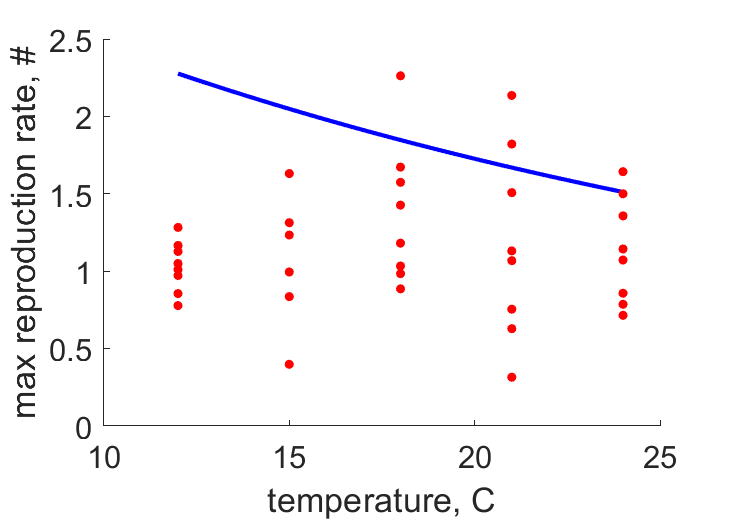
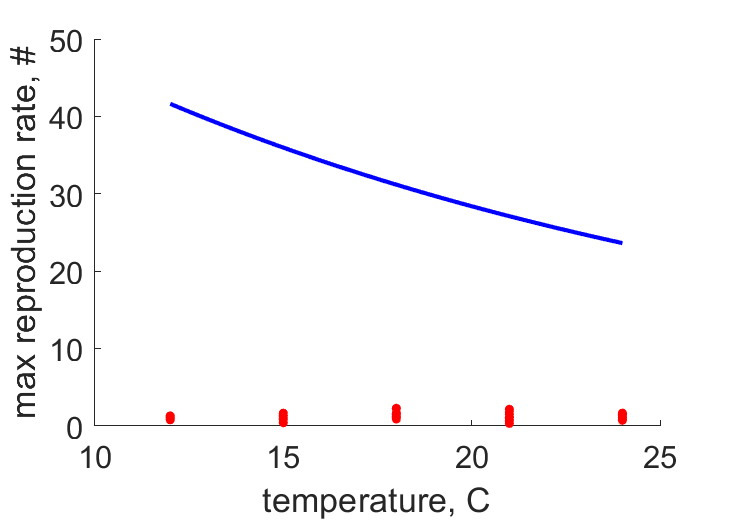
update

diff --git a/Tachidius_discipes/Tachidius_discipes_res.html b/Tachidius_discipes/Tachidius_discipes_res.html
@@ -44,7 +44,7 @@
   </div>
 
   <div class="par">
-  <h4>COMPLETE = 2.0; MRE =    0.271; SMAE =    0.312; SMSE =    0.172 </h4>
+  <h4>COMPLETE = 2.0; MRE =    8.874; SMAE =    1.218; SMSE =    1.178 </h4>
   </div>
 
   <p class="clear"></p>
@@ -53,31 +53,31 @@
   <h2>Data & predictions</h2>
   <TABLE id="prd">
     <TR  class="head"><TH>data</TH> <TH>prd</TH> <TH>RE</TH>  <TH>symbol</TH> <TH>units</TH> <TH>description</TH> </TR>
-    <TR><TD>4.375</TD> <TD>3.936</TD> <TD>0.1004</TD> <TD>ah</TD> <TD>d</TD> <TD>age at hatch</TD></TR>
-    <TR><TD>0.006853</TD> <TD>0.008062</TD> <TD>0.1764</TD> <TD>Lh</TD> <TD>cm</TD> <TD>length at hatch</TD></TR>
-    <TR><TD>0.007812</TD> <TD>0.009014</TD> <TD>0.1539</TD> <TD>Lb</TD> <TD>cm</TD> <TD>length at birth</TD></TR>
-    <TR><TD>0.02666</TD> <TD>0.02234</TD> <TD>0.162</TD> <TD>Lp</TD> <TD>cm</TD> <TD>length at puberty</TD></TR>
-    <TR><TD>2.057e-05</TD> <TD>1.278e-06</TD> <TD>0.9379</TD> <TD>Wdp</TD> <TD>g</TD> <TD>ultimate dry weight at puberty</TD></TR>
-    <TR><TD colspan="2">see figure</TD> <TD>0.2531</TD> <TD>tL12</TD> <TD colspan="2">time <font color="blue"><i>vs.</i></font> area^(1/2)</TD>
-    <TR><TD colspan="2">see figure</TD> <TD>0.208</TD> <TD>tL15</TD> <TD colspan="2">time <font color="blue"><i>vs.</i></font> area^(1/2)</TD>
-    <TR><TD colspan="2">see figure</TD> <TD>0.2011</TD> <TD>tL18</TD> <TD colspan="2">time <font color="blue"><i>vs.</i></font> area^(1/2)</TD>
-    <TR><TD colspan="2">see figure</TD> <TD>0.1941</TD> <TD>tL21</TD> <TD colspan="2">time <font color="blue"><i>vs.</i></font> area^(1/2)</TD>
-    <TR><TD colspan="2">see figure</TD> <TD>0.1511</TD> <TD>tL24</TD> <TD colspan="2">time <font color="blue"><i>vs.</i></font> area^(1/2)</TD>
-    <TR><TD colspan="2">see figure</TD> <TD>0.1153</TD> <TD>tN12</TD> <TD colspan="2">time <font color="blue"><i>vs.</i></font> clutch size</TD>
-    <TR><TD colspan="2">see figure</TD> <TD>0.2685</TD> <TD>tN15</TD> <TD colspan="2">time <font color="blue"><i>vs.</i></font> clutch size</TD>
-    <TR><TD colspan="2">see figure</TD> <TD>0.2034</TD> <TD>tN18</TD> <TD colspan="2">time <font color="blue"><i>vs.</i></font> clutch size</TD>
-    <TR><TD colspan="2">see figure</TD> <TD>0.4544</TD> <TD>tN21</TD> <TD colspan="2">time <font color="blue"><i>vs.</i></font> clutch size</TD>
-    <TR><TD colspan="2">see figure</TD> <TD>0.2804</TD> <TD>tN24</TD> <TD colspan="2">time <font color="blue"><i>vs.</i></font> clutch size</TD>
-    <TR><TD colspan="2">see figure</TD> <TD>0.2959</TD> <TD>Tah</TD> <TD colspan="2">temperature <font color="blue"><i>vs.</i></font> age at hatching</TD>
-    <TR><TD colspan="2">see figure</TD> <TD>0.6985</TD> <TD>TR</TD> <TD colspan="2">temperature <font color="blue"><i>vs.</i></font> max reproduction rate</TD>
-    <TR><TD colspan="2">see figure</TD> <TD>0.148</TD> <TD>LWCN</TD> <TD colspan="2">length <font color="blue"><i>vs.</i></font> carbon mass</TD>
-    <TR><TD colspan="2">see figure</TD> <TD>0.1477</TD> <TD>Tap</TD> <TD colspan="2">temperature <font color="blue"><i>vs.</i></font> age at puberty</TD>
-    <TR class="psd"><TD>0.02</TD> <TD>0.005255</TD> <TD>0.7372</TD> <TD>psd.v</TD> <TD>cm/d</TD> <TD>energy conductance</TD></TR>
-    <TR class="psd"><TD>0.8</TD> <TD>0.99</TD> <TD>0.2375</TD> <TD>psd.kap</TD> <TD>-</TD> <TD>allocation fraction to soma</TD></TR>
+    <TR><TD>4.375</TD> <TD>0.3134</TD> <TD>0.9284</TD> <TD>ah</TD> <TD>d</TD> <TD>age at hatch</TD></TR>
+    <TR><TD>0.006853</TD> <TD>0.002727</TD> <TD>0.6021</TD> <TD>Lh</TD> <TD>cm</TD> <TD>length at hatch</TD></TR>
+    <TR><TD>0.007812</TD> <TD>0.00311</TD> <TD>0.6019</TD> <TD>Lb</TD> <TD>cm</TD> <TD>length at birth</TD></TR>
+    <TR><TD>0.02666</TD> <TD>0.01096</TD> <TD>0.5888</TD> <TD>Lp</TD> <TD>cm</TD> <TD>length at puberty</TD></TR>
+    <TR><TD>2.057e-05</TD> <TD>9.092e-08</TD> <TD>0.9956</TD> <TD>Wdp</TD> <TD>g</TD> <TD>ultimate dry weight at puberty</TD></TR>
+    <TR><TD colspan="2">see figure</TD> <TD>0.4123</TD> <TD>tL12</TD> <TD colspan="2">time <font color="blue"><i>vs.</i></font> area^(1/2)</TD>
+    <TR><TD colspan="2">see figure</TD> <TD>0.4113</TD> <TD>tL15</TD> <TD colspan="2">time <font color="blue"><i>vs.</i></font> area^(1/2)</TD>
+    <TR><TD colspan="2">see figure</TD> <TD>0.39</TD> <TD>tL18</TD> <TD colspan="2">time <font color="blue"><i>vs.</i></font> area^(1/2)</TD>
+    <TR><TD colspan="2">see figure</TD> <TD>0.3866</TD> <TD>tL21</TD> <TD colspan="2">time <font color="blue"><i>vs.</i></font> area^(1/2)</TD>
+    <TR><TD colspan="2">see figure</TD> <TD>0.3989</TD> <TD>tL24</TD> <TD colspan="2">time <font color="blue"><i>vs.</i></font> area^(1/2)</TD>
+    <TR><TD colspan="2">see figure</TD> <TD>22.29</TD> <TD>tN12</TD> <TD colspan="2">time <font color="blue"><i>vs.</i></font> clutch size</TD>
+    <TR><TD colspan="2">see figure</TD> <TD>24.52</TD> <TD>tN15</TD> <TD colspan="2">time <font color="blue"><i>vs.</i></font> clutch size</TD>
+    <TR><TD colspan="2">see figure</TD> <TD>21.16</TD> <TD>tN18</TD> <TD colspan="2">time <font color="blue"><i>vs.</i></font> clutch size</TD>
+    <TR><TD colspan="2">see figure</TD> <TD>28.67</TD> <TD>tN21</TD> <TD colspan="2">time <font color="blue"><i>vs.</i></font> clutch size</TD>
+    <TR><TD colspan="2">see figure</TD> <TD>36.83</TD> <TD>tN24</TD> <TD colspan="2">time <font color="blue"><i>vs.</i></font> clutch size</TD>
+    <TR><TD colspan="2">see figure</TD> <TD>0.8943</TD> <TD>Tah</TD> <TD colspan="2">temperature <font color="blue"><i>vs.</i></font> age at hatching</TD>
+    <TR><TD colspan="2">see figure</TD> <TD>27.28</TD> <TD>TR</TD> <TD colspan="2">temperature <font color="blue"><i>vs.</i></font> max reproduction rate</TD>
+    <TR><TD colspan="2">see figure</TD> <TD>0.4224</TD> <TD>LWCN</TD> <TD colspan="2">length <font color="blue"><i>vs.</i></font> carbon mass</TD>
+    <TR><TD colspan="2">see figure</TD> <TD>0.8158</TD> <TD>Tap</TD> <TD colspan="2">temperature <font color="blue"><i>vs.</i></font> age at puberty</TD>
+    <TR class="psd"><TD>0.02</TD> <TD>0.02594</TD> <TD>0.2972</TD> <TD>psd.v</TD> <TD>cm/d</TD> <TD>energy conductance</TD></TR>
+    <TR class="psd"><TD>0.8</TD> <TD>0.8</TD> <TD>  0</TD> <TD>psd.kap</TD> <TD>-</TD> <TD>allocation fraction to soma</TD></TR>
     <TR class="psd"><TD>0.95</TD> <TD>0.95</TD> <TD>  0</TD> <TD>psd.kap_R</TD> <TD>-</TD> <TD>reproduction efficiency</TD></TR>
-    <TR class="psd"><TD> 18</TD> <TD>722.4</TD> <TD>39.13</TD> <TD>psd.p_M</TD> <TD>J/d.cm^3</TD> <TD>vol-spec som maint</TD></TR>
+    <TR class="psd"><TD> 18</TD> <TD>927.5</TD> <TD>50.53</TD> <TD>psd.p_M</TD> <TD>J/d.cm^3</TD> <TD>vol-spec som maint</TD></TR>
     <TR class="psd"><TD>0.002</TD> <TD>0.002</TD> <TD>  0</TD> <TD>psd.k_J</TD> <TD>1/d</TD> <TD>maturity maint rate coefficient</TD></TR>
-    <TR class="psd"><TD>0.8</TD> <TD>0.8007</TD> <TD>0.0008978</TD> <TD>psd.kap_G</TD> <TD>-</TD> <TD>growth efficiency</TD></TR>
+    <TR class="psd"><TD>0.8</TD> <TD>0.8001</TD> <TD>0.0001062</TD> <TD>psd.kap_G</TD> <TD>-</TD> <TD>growth efficiency</TD></TR>
   </TABLE>
   </div>
 
@@ -86,24 +86,24 @@
   <TABLE id="par">
     <TR class="head"><TH>symbol</TH> <TH>units</TH> <TH>value</TH>  <TH>free</TH> <TH>description</TH> </TR>
     <TR><TD>T_ref</TD> <TD>K</TD> <TD>293.1</TD> <TD>0</TD> <TD>Reference temperature</TD></TR>
-    <TR><TD>T_A</TD> <TD>K</TD> <TD>2893</TD> <TD>1</TD> <TD>Arrhenius temperature</TD></TR>
-    <TR><TD>z</TD> <TD>-</TD> <TD>0.04063</TD> <TD>1</TD> <TD>zoom factor</TD></TR>
+    <TR><TD>T_A</TD> <TD>K</TD> <TD>4000</TD> <TD>0</TD> <TD>Arrhenius temperature</TD></TR>
+    <TR><TD>z</TD> <TD>-</TD> <TD>0.03705</TD> <TD>1</TD> <TD>zoom factor</TD></TR>
     <TR><TD>F_m</TD> <TD>l/d.cm^2</TD> <TD>6.5</TD> <TD>0</TD> <TD>{F_m}, max spec searching rate</TD></TR>
     <TR><TD>kap_X</TD> <TD>-</TD> <TD>0.8</TD> <TD>0</TD> <TD>digestion efficiency of food to reserve</TD></TR>
     <TR><TD>kap_P</TD> <TD>-</TD> <TD>0.1</TD> <TD>0</TD> <TD>faecation efficiency of food to faeces</TD></TR>
-    <TR><TD>v</TD> <TD>cm/d</TD> <TD>0.005255</TD> <TD>1</TD> <TD>energy conductance</TD></TR>
-    <TR><TD>kap</TD> <TD>-</TD> <TD>0.99</TD> <TD>0</TD> <TD>allocation fraction to soma</TD></TR>
+    <TR><TD>v</TD> <TD>cm/d</TD> <TD>0.02594</TD> <TD>0</TD> <TD>energy conductance</TD></TR>
+    <TR><TD>kap</TD> <TD>-</TD> <TD>0.8</TD> <TD>0</TD> <TD>allocation fraction to soma</TD></TR>
     <TR><TD>kap_R</TD> <TD>-</TD> <TD>0.95</TD> <TD>0</TD> <TD>reproduction efficiency</TD></TR>
-    <TR><TD>p_M</TD> <TD>J/d.cm^3</TD> <TD>722.4</TD> <TD>1</TD> <TD>[p_M], vol-spec somatic maint</TD></TR>
+    <TR><TD>p_M</TD> <TD>J/d.cm^3</TD> <TD>927.5</TD> <TD>1</TD> <TD>[p_M], vol-spec somatic maint</TD></TR>
     <TR><TD>p_T</TD> <TD>J/d.cm^2</TD> <TD>  0</TD> <TD>0</TD> <TD>{p_T}, surf-spec somatic maint</TD></TR>
     <TR><TD>k_J</TD> <TD>1/d</TD> <TD>0.002</TD> <TD>0</TD> <TD>maturity maint rate coefficient</TD></TR>
-    <TR><TD>E_G</TD> <TD>J/cm^3</TD> <TD>4442</TD> <TD>1</TD> <TD>[E_G], spec cost for structure</TD></TR>
-    <TR><TD>E_Hb</TD> <TD>J</TD> <TD>1.085e-05</TD> <TD>1</TD> <TD>maturity at birth</TD></TR>
-    <TR><TD>E_Hp</TD> <TD>J</TD> <TD>0.0002531</TD> <TD>1</TD> <TD>maturity at puberty</TD></TR>
-    <TR><TD>h_a</TD> <TD>1/d^2</TD> <TD>3.811e-17</TD> <TD>1</TD> <TD>Weibull aging acceleration</TD></TR>
+    <TR><TD>E_G</TD> <TD>J/cm^3</TD> <TD>4445</TD> <TD>1</TD> <TD>[E_G], spec cost for structure</TD></TR>
+    <TR><TD>E_Hb</TD> <TD>J</TD> <TD>9.787e-06</TD> <TD>1</TD> <TD>maturity at birth</TD></TR>
+    <TR><TD>E_Hp</TD> <TD>J</TD> <TD>0.0005102</TD> <TD>1</TD> <TD>maturity at puberty</TD></TR>
+    <TR><TD>h_a</TD> <TD>1/d^2</TD> <TD>3.021e-17</TD> <TD>1</TD> <TD>Weibull aging acceleration</TD></TR>
     <TR><TD>s_G</TD> <TD>-</TD> <TD>0.0001</TD> <TD>0</TD> <TD>Gompertz stress coefficient</TD></TR>
-    <TR><TD>E_Hh</TD> <TD>J</TD> <TD>7.482e-06</TD> <TD>1</TD> <TD>maturity at hatch</TD></TR>
-    <TR><TD>del_M</TD> <TD>-</TD> <TD>0.6512</TD> <TD>1</TD> <TD>shape coefficient</TD></TR>
+    <TR><TD>E_Hh</TD> <TD>J</TD> <TD>6.535e-06</TD> <TD>1</TD> <TD>maturity at hatch</TD></TR>
+    <TR><TD>del_M</TD> <TD>-</TD> <TD>0.6584</TD> <TD>1</TD> <TD>shape coefficient</TD></TR>
     <TR><TD>f</TD> <TD>-</TD> <TD>  1</TD> <TD>0</TD> <TD>scaled functional response for 0-var data</TD></TR>
   </TABLE>
   </div>

diff --git a/Tachidius_discipes/run_Tachidius_discipes.m b/Tachidius_discipes/run_Tachidius_discipes.m
@@ -9,8 +9,8 @@ estim_options('default');
 estim_options('max_step_number', 5e2);
 estim_options('max_fun_evals',5e3);
 
-estim_options('pars_init_method', 1);
+estim_options('pars_init_method', 2);
 estim_options('results_output', 4);
-estim_options('method', 'nm');
+estim_options('method', 'no');
 
 estim_pars;
